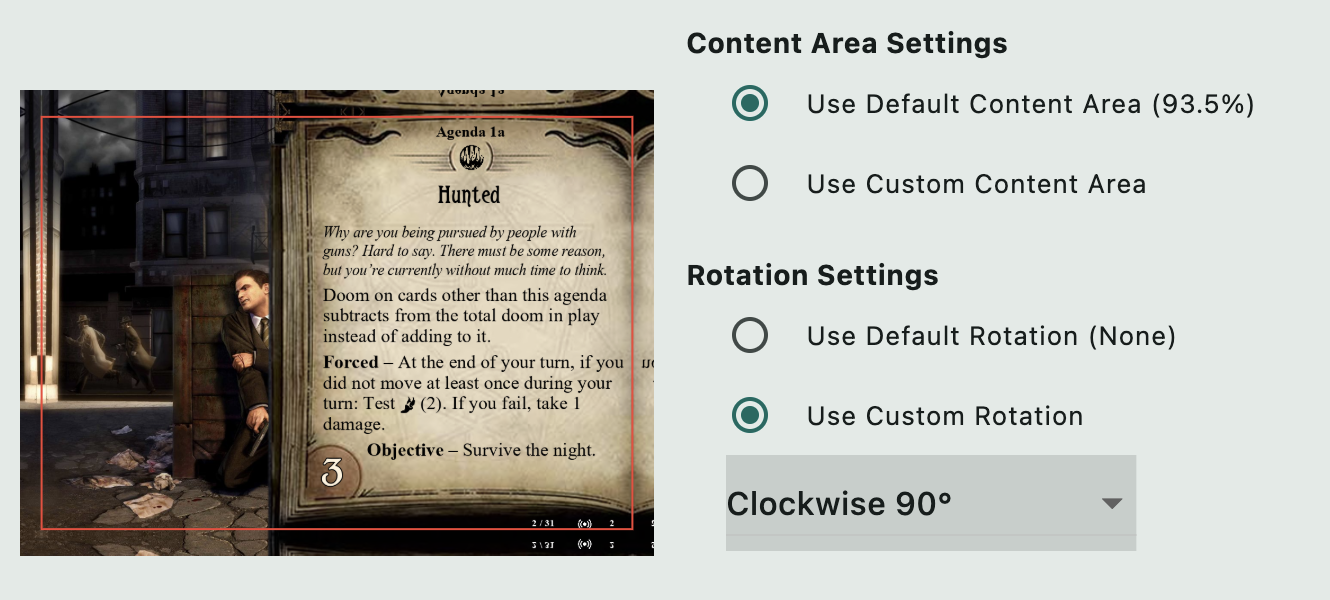
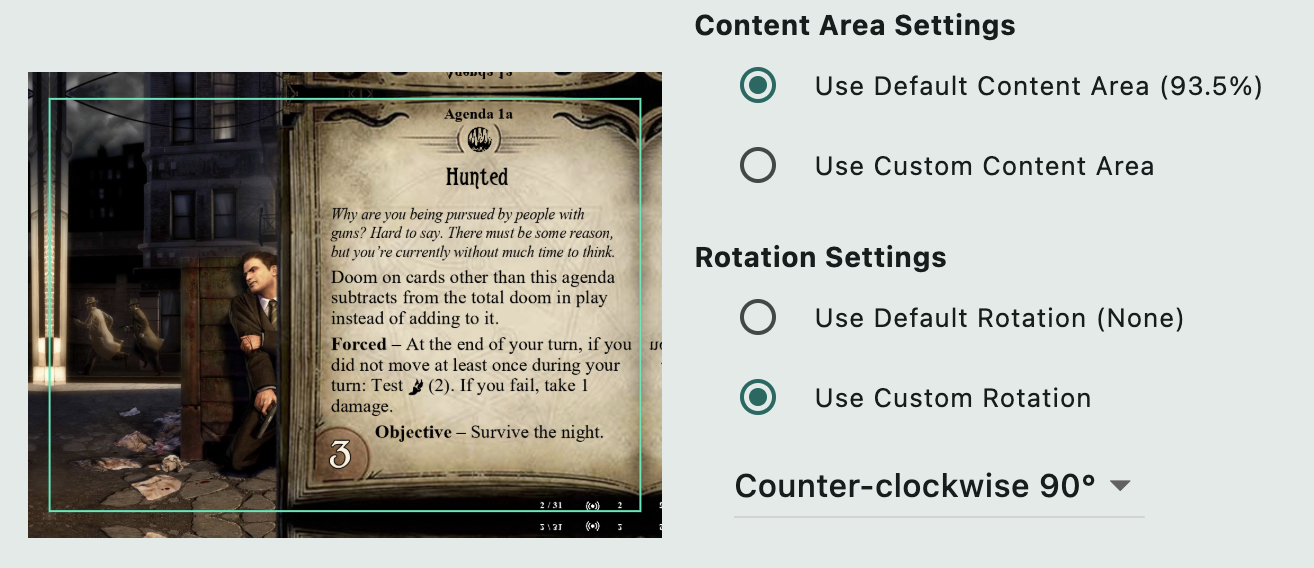
update docs

Changed region(s): [[0.0, 0.1197, 0.9673, 0.9577], [0.4992, 0.0299, 0.7801, 0.0898]]

diff --git a/documentation/create/create.md b/documentation/create/create.md
@@ -44,9 +44,7 @@ This feature is useful in the context of printing proxies or custom content in c
 
 ## Cards
 
-![Cards Tab](image/cards-tab.png)
-
-A new project comes with one "group" created for you with no card inside. Cards **cannot** be floating outside a group in this program, so you must have at least one group to create a card. This rule simplifies the printing process where user can pick something to print in groups, not cards.
+Cards **cannot** be floating outside a "group" (a virtual folder) in this program, so you must have at least one group to create a card. This rule simplifies the printing process where user can pick something to print in groups, not cards.
 
 ![alt text](image/create-card.png)
 
@@ -78,7 +76,9 @@ But you can leave those graphics in their natural rotation (that you don't have 
 
 ![Editing a per-card rotation](image/rotation-fixing-2.png)
 
-Note that the graphic is not rotated after adjusting the settings; the content area box is rotated instead. This let you preview and work with the graphic in its best shape and only rotates at the end when it is getting on the page. You still need to be careful which way the rotation of the front face and back face should be, so they are correct in the final product. And since the graphic doesn't rotate in the preview, both counter-clockwise and clockwise rotation appear the same!
+Note that the graphic is not rotated after adjusting the settings. The content area box is rotated instead. This lets you work with the graphic in its pre-rotation look. It only rotates for real at the end when it is getting on the page.
+
+You still need to be careful which way the rotation of the front face and back face should be, so they are correct in the final product. Since the graphic doesn't rotate in the preview, both counter-clockwise and clockwise rotations appear the same except the differently colored content area box. So be careful of inconsistent or wrong directions of rotation.
 
 ### Create multiple cards by importing
 
